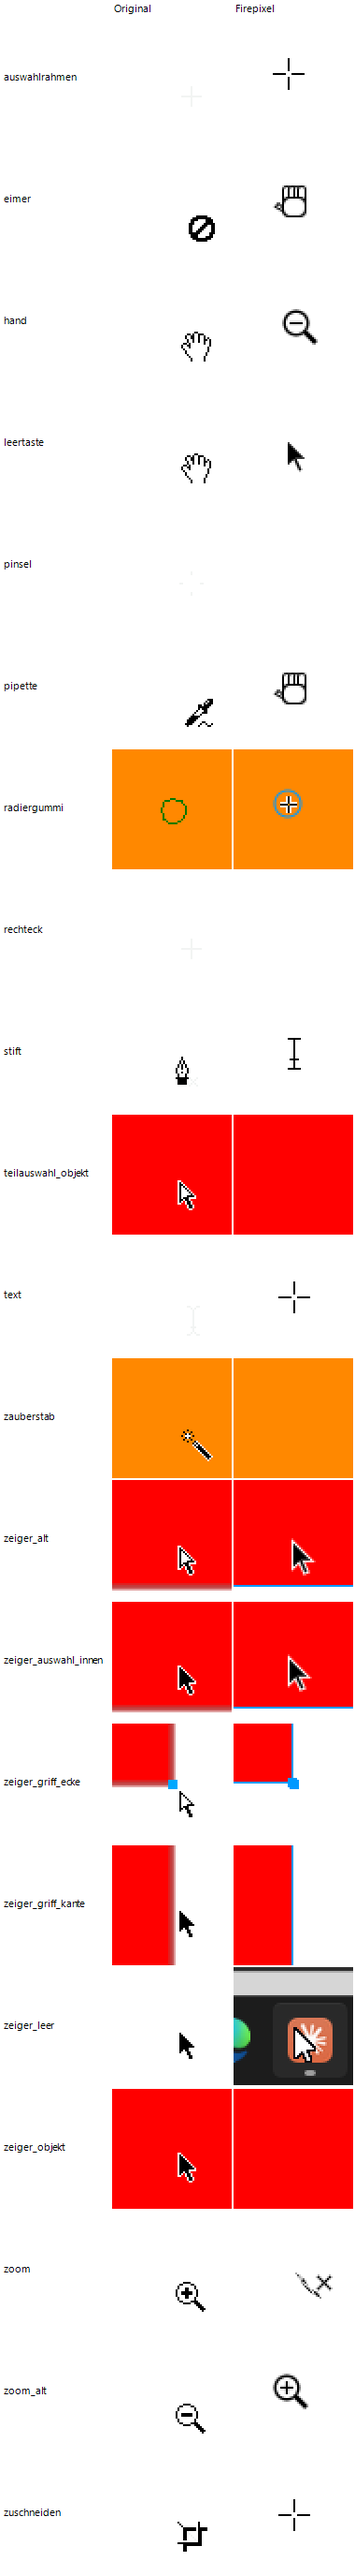
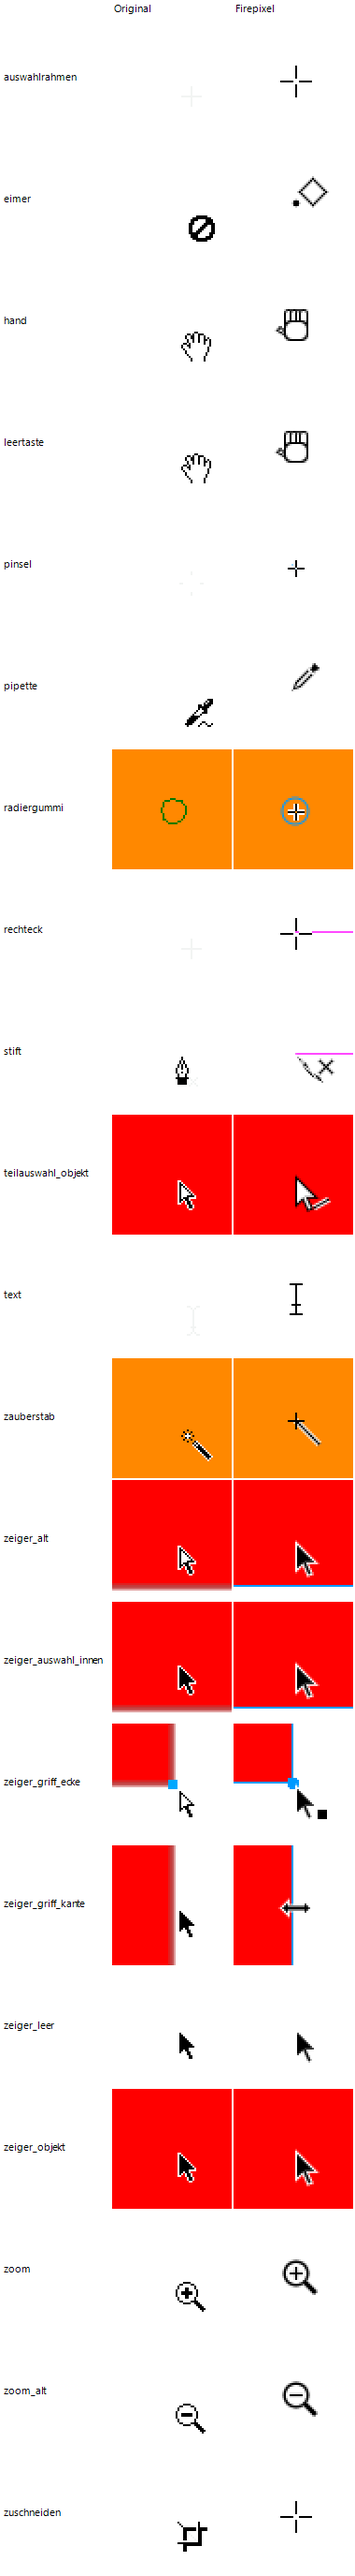
UX-A: Paritaet A angehalten, Uebergabe-Zusammenfassung und offene Pruefliste

diff --git a/docs/PARITAET_A.md b/docs/PARITAET_A.md
@@ -2,6 +2,92 @@
 
 Auftrag: „Vergleich mal alle Funktionen vom Original und Firepixel, damit sie wirklich 1:1 sind.“ Für die Nacht hat der Nutzer echte Maus- und Tastatureingabe freigegeben.
 
+## Übergabe (Stand 12.10.2026, Arbeit auf Nutzerwunsch angehalten)
+
+**Zahlen je Bereich** (113 Zeilen; ✅ gleich, ⚠ Abweichung im Detail, ❌ fehlt bzw. falsch, ⏳ begonnen, aber nicht fertig gemessen):
+
+| Bereich | ✅ | ⚠ | ❌ | ⏳ |
+|---|---|---|---|---|
+| 1 Inspektor je Werkzeug (W1–W38) | 9 | 10 | 18 | 1 |
+| 2 Feldverhalten Deckkraft (F1–F11) | 7 | 4 | 0 | 0 |
+| 3 Text: Schriftgröße (T1–T6) | 3 | 0 | 2 | 1 |
+| 4 Inspektor je Objektart (O1–O17) | 6 | 4 | 7 | 0 |
+| 5 Leinwand/Werkzeugverhalten (L1–L30) | 9 | 7 | 12 | 2 |
+| 6 Mauszeiger (K1–K11) | 5 | 6 | 0 | 0 |
+| **Summe** | **39** | **31** | **39** | **4** |
+
+**Geprüft sind:**
+- der Werkzeug-Inspektor ohne Auswahl für alle Werkzeuge der Werkzeugleiste, Vorgaben gegen die Werkseinstellungen;
+- das Feld „Deckkraft“ vollständig (Tippen, Klemmen, Pfeiltasten, Rad, Popup-Schieber, Esc/Tab, Rückgängig);
+- die Schriftgröße beim Textobjekt und bei markiertem Text;
+- der Inspektor für Rechteck, Pfad, Text, Bitmap, Gruppe, Symbol, Hotspot und Mehrfachauswahl;
+- Zeichnen mit Umschalt/Alt, Esc/Enter, Pfeiltasten, Mausrad, Zoomrahmen, Zauberstab, Bitmapmodus, Zuschneiden und Eckgriffe mit echter Maus;
+- die Mauszeiger je Werkzeug.
+
+**Befunde und Verbleib** (alle Einträge in `docs\BEFUNDE.md`, Abschnitt UX-A; beim Anhalten war keiner als behoben gemeldet):
+- **LW (Leinwand/Werkzeuge), offen:**
+  - Werkzeugvorgaben aus den Voreinstellungen;
+  - Textwerkzeug: Schrift und Farbe; Zeilenabstand 120 % und 2 px Rand; Textlage und Werkzeug nach Esc;
+  - Gummiband „berührt“; Umschalt während des Ziehens;
+  - **hoch:** Rechteck mit Umschalt/Alt und Fang am Startpunkt;
+  - Pfeiltasten/Esc beim Aufziehen;
+  - **hoch:** Stift-Doppelklick verwirft den Pfad;
+  - **hoch:** Eckgriff am Rechteck ändert nichts;
+  - Strg+Leertaste-Zoom; Zoomrahmen auf Tabellenstufe; Mausrad ohne Taste;
+  - Esc bei Zauberstab bzw. im Bitmapmodus; Doppelklick auf Bitmap; Zuschneiden + Esc;
+  - Segmente/Hotspots unsichtbar;
+  - Mauszeiger.
+- **I18N-INSPEKTOR („Funktion, nicht Text“), offen:**
+  - Masken-Teilfeld; Zustand der Pinselform; Text-Zeile 2 grau;
+  - Knopf „ab/cd“ fehlt; Pinselstrich-Feld im Text-Inspektor;
+  - Strichposition im Werkzeug-Inspektor;
+  - Toleranz beim Verlauf an „Auswahl füllen“;
+  - Popup-Schieber senkrecht; **hoch:** Esc im Popup hebt die Auswahl auf;
+  - Ziffernfelder; gemischte Werte leer.
+- **AU (Skript):** `addNewHotspot("slice")` erzeugt einen Hotspot; das JSF-Anlegen von Text übernimmt die Voreinstellungen nicht. Beide offen.
+- **Phase 1 (`docs\UX_ABGLEICH_A.md`):**
+  - von UX-A selbst behoben: Einfügeversatz, Einpassen mit 15 px Rand, Verschmelzen der Pfeiltasten im Verlauf;
+  - HG C22 und Z26 erledigt;
+  - die übrigen Phase-1-Befunde stehen dort mit Status.
+
+**Als Nächstes prüfen, in dieser Reihenfolge:**
+1. Erneut prüfen, sobald LW und I18N-INSPEKTOR ihre Befunde als behoben melden: zuerst die „hoch“-Punkte (Eckgriff, Stift-Doppelklick, Rechteck Umschalt/Alt, Esc im Popup).
+2. Feldprobe auf der Firepixel-Seite für B, X, Rundung und Strich (Skript `uxp_v7.ps1 -Seite f`). Messwerte des Originals: B höchstens 6000, X negativ erlaubt, Rundung klemmt auf 100 %, Strich 9999 → 100, „-5“ → 5; Pfeiltasten und Rad wirken nicht.
+3. Offene ⏳-Zeilen: L30 (Skalieren/Transformieren im Original, `uxp_v6.ps1`), L8, W23, T6.
+4. Text: Kanten, Rücktaste, Live-Wirkung weiterer Felder während der Bearbeitung.
+5. Inspektor für Schaltfläche, Animation und Segment in Firepixel.
+6. Popup-Schieber der übrigen Felder (Kante, Textur, Strich).
+7. Mauszeiger in XOR-Darstellung.
+
+**So benutzt man die Hilfen.** Alles liegt dauerhaft unter `..\re\_testdateien\ux\uxa\werkzeug\`; JSF-Dateien in `jsf\`, Rohbilder in `bilder\`. In den Skripten steht noch der alte Scratchpad-Pfad in `$S`; auf diesen Ordner umstellen.
+- `uxa2.ps1` ist die Eingabebibliothek: `Ziel`, `Klick`, `Ziehe`, `Druecke`, `Tippe`, `Rad`, `Foto`, `ZeigerBild`, `Loesen`, `FP-Dialoge-Schliessen`.
+  - Vor **jeder** Eingabe prüft sie, ob Vordergrundfenster und Fenster unter dem Punkt (WindowFromPoint) zum Zielprozess gehören; sonst bricht sie ab.
+  - `Tippe` arbeitet mit VkKeyScan, weil das Original Unicode-Eingabe ignoriert.
+  - RDP darf nicht minimiert sein.
+- `fpmcp.ps1`: `FP-Start` startet eine eigene Release-Instanz mit `--mcp`, eigenem APPDATA und Sprache de. `FP <werkzeug> @{…}` ruft die MCP-Brücke auf. Die Instanz am Ende beenden.
+- `pi.ps1` liest den Inspektor des Originals per Fensternachricht. `paar.ps1` → `Paarbild` setzt zwei Aufnahmen übereinander, das Original oben.
+- `sitzung.ps1 -Skript <x.ps1> -Seite o|f` wartet 60 s ohne Nutzereingabe, nimmt die gemeinsame Sperre (gui-sitzung) und räumt danach Tasten und Dialoge auf. Sitzungen dauern höchstens 5 Minuten.
+- **Ablauf einer Messung:**
+  1. Original: `jsf\uxp_aktiv.jsf` holt das eigene Testdokument nach vorn, `jsf\uxp_objekte.jsf` baut die Ausgangslage.
+  2. Firepixel: `FP-Start`, dann `fp_objekte.ps1` (gleiche Objekte).
+  3. `uxp_vN.ps1 -Seite o`, danach `-Seite f`, jeweils über `sitzung.ps1`.
+  4. Die Ausgaben vergleichen, `Paarbild` nach `docs\screenshots\paritaet\a_<nr>_<name>.png`, die Zeile hier eintragen und den Befund in BEFUNDE.md.
+- Keine Befehle, die Datei-Dialoge öffnen. Den Prozess des Originals nie beenden.
+- **Messdaten:** `..\re\_testdateien\ux\uxa\o_ergebnisse.txt` (Phase 1) und `werkzeug\pi_inventar.txt` (Inspektor-Steuerelemente). Belegbilder: `docs\screenshots\paritaet\a_*.png`.
+
+## Noch nicht geprüft
+
+- Werkzeuge mit Auswahl: der Inspektor nach dem Zeichnen für jedes einzelne Werkzeug (bisher nur stichprobenartig).
+- Felder außer Deckkraft und Schriftgröße im vollen Feldprobenumfang: B, H, X, Y, Rundung, Strichstärke, Kante, Textur, Laufweite, Zeilenabstand, Grundlinie, Einzug, Absatzabstände.
+- Rückgängig-Granularität je Feld (außer Deckkraft).
+- Skalieren, Verzerren und Drehen mit Modifikatoren; Ebenen-Interaktion auf der Leinwand.
+- Inspektor für Schaltfläche, Animationssymbol, Segment und Instanz mit Eigenschaften.
+- Stift- und Unterauswahl-Feinheiten: Kurvenpunkte, Alt-Ziehen an Griffen, Pfad fortsetzen.
+- Bitmapwerkzeuge im Detail: Pinsel, Radierer, Weichzeichner, Stempel, Ersetzen.
+- Text: Kanten, Rücktaste und Pfeiltasten im Text, Textfluss im Rahmen.
+
+---
+
 Dieser Katalog wird laufend ergänzt. Jede Zeile beschreibt ein Element mit dem Verhalten im Original und in Firepixel, dazu das Ergebnis und das Belegbild.
 
 ## Aufbau der Messung
@@ -142,13 +228,36 @@ Testdokument mit denselben Objekten in beiden Programmen (per JSF angelegt): R1,
 | L23 | Stift: 2 Klicks, Esc | offener Pfad 250,150–330,150 | ebenso | ✅ | |
 | L24 | Stift: Klick, Klick, Doppelklick | offener Pfad mit 3 Punkten bis 330,220 | **kein Pfad** (nach dem Doppelklick ist nichts da) | ❌ | |
 | L25 | Zoomwerkzeug: Rahmen 50,50–150,120 aufziehen | 1150 % (stufenlos eingepasst) | 800 % (Tabellenstufe) | ❌ | |
+| L26 | Zeiger: Eckgriff eines gewählten Rechtecks um +40/+30 ziehen | Rechteck wird **größer** (bis 193,153), Rundung bleibt 0 | keine Änderung (weder Größe noch Rundung) | ❌ | |
+| L27 | Zeiger: Doppelklick auf Bitmap | Bitmapmodus, Werkzeug wechselt zum Auswahlrahmen | nichts | ❌ | |
+| L28 | Zuschneiden: Rahmen ziehen, Esc | Leinwand unverändert, Werkzeug wechselt zum Zeiger | Leinwand unverändert, Werkzeug bleibt Zuschneiden | ⚠ | |
+| L29 | Zuschneiden: Rahmen 20,20–300,200, Eingabe, Strg+Z | 280 × 180, Rückgängig stellt 600 × 400 her | ebenso | ✅ | |
+| L30 | Skalieren: Eckgriff ziehen, Esc bzw. Eingabe | ⏳ (Werkzeug lässt sich im laufenden Original nicht per Skript wählen) | Esc verwirft, Eingabe übernimmt, ein Schritt | ⏳ | |
+
+## 6. Mauszeiger (echte Maus, Bild `a_400_mauszeiger.png`)
+
+Das Original zeichnet einige Zeiger invertiert (XOR); auf weißem Grund sind sie im Bild kaum zu sehen (Auswahlrahmen, Rechteck, Pinsel, Text). Diese Zeiger sind hier nicht bewertet.
+
+| Nr | Lage | Original | Firepixel | |
+|---|---|---|---|---|
+| K1 | Zeiger über leerer Leinwand / über Objekt / im gewählten Objekt / mit Alt | schwarzer Pfeil | schwarzer Pfeil | ✅ |
+| K2 | Zeiger über Eckgriff eines gewählten Rechtecks | Pfeil (ohne Zusatz) | Pfeil mit schwarzem Quadrat | ⚠ |
+| K3 | Zeiger über Kantengriff | Pfeil | Doppelpfeil ↔ | ⚠ |
+| K4 | Teilauswahl über Objekt | weißer Pfeil | weißer Pfeil mit Zusatz | ✅ |
+| K5 | Zoom / Zoom mit Alt | Lupe + / Lupe − | Lupe + / Lupe − | ✅ |
+| K6 | Hand-Werkzeug bzw. Leertaste, ohne Maustaste | **offene** Hand | geschlossene Faust | ⚠ |
+| K7 | Stift über leerer Leinwand | Federspitze | Stift mit Kreuz (wie „Pfad schließen/entfernen“) | ⚠ |
+| K8 | Füllwerkzeug über leerer Leinwand (kein Objekt) | Verbotszeichen ⊘ | Farbeimer | ⚠ |
+| K9 | Zuschneiden | Zuschneide-Symbol | Fadenkreuz | ⚠ |
+| K10 | Radiergummi über Bitmap | Kreis in Pinselgröße | Kreis in Pinselgröße mit Mittelkreuz | ✅ |
+| K11 | Zauberstab, Pipette | Zauberstab / Pipette | Zauberstab / Pipette (eigene Form) | ✅ |
 
 ## Zählung (laufend)
 
 | | Anzahl |
 |---|---|
-| geprüfte Elemente | 97 Zeilen (rund 270 einzelne Felder, Vorgaben bzw. Abläufe) |
-| ✅ | 33 |
-| ⚠ | 24 |
-| ❌ | 37 |
-| ⏳ | 3 |
+| geprüfte Elemente | 113 Zeilen (rund 300 einzelne Felder, Vorgaben, Abläufe bzw. Zeiger) |
+| ✅ | 39 |
+| ⚠ | 31 |
+| ❌ | 39 |
+| ⏳ | 4 |
